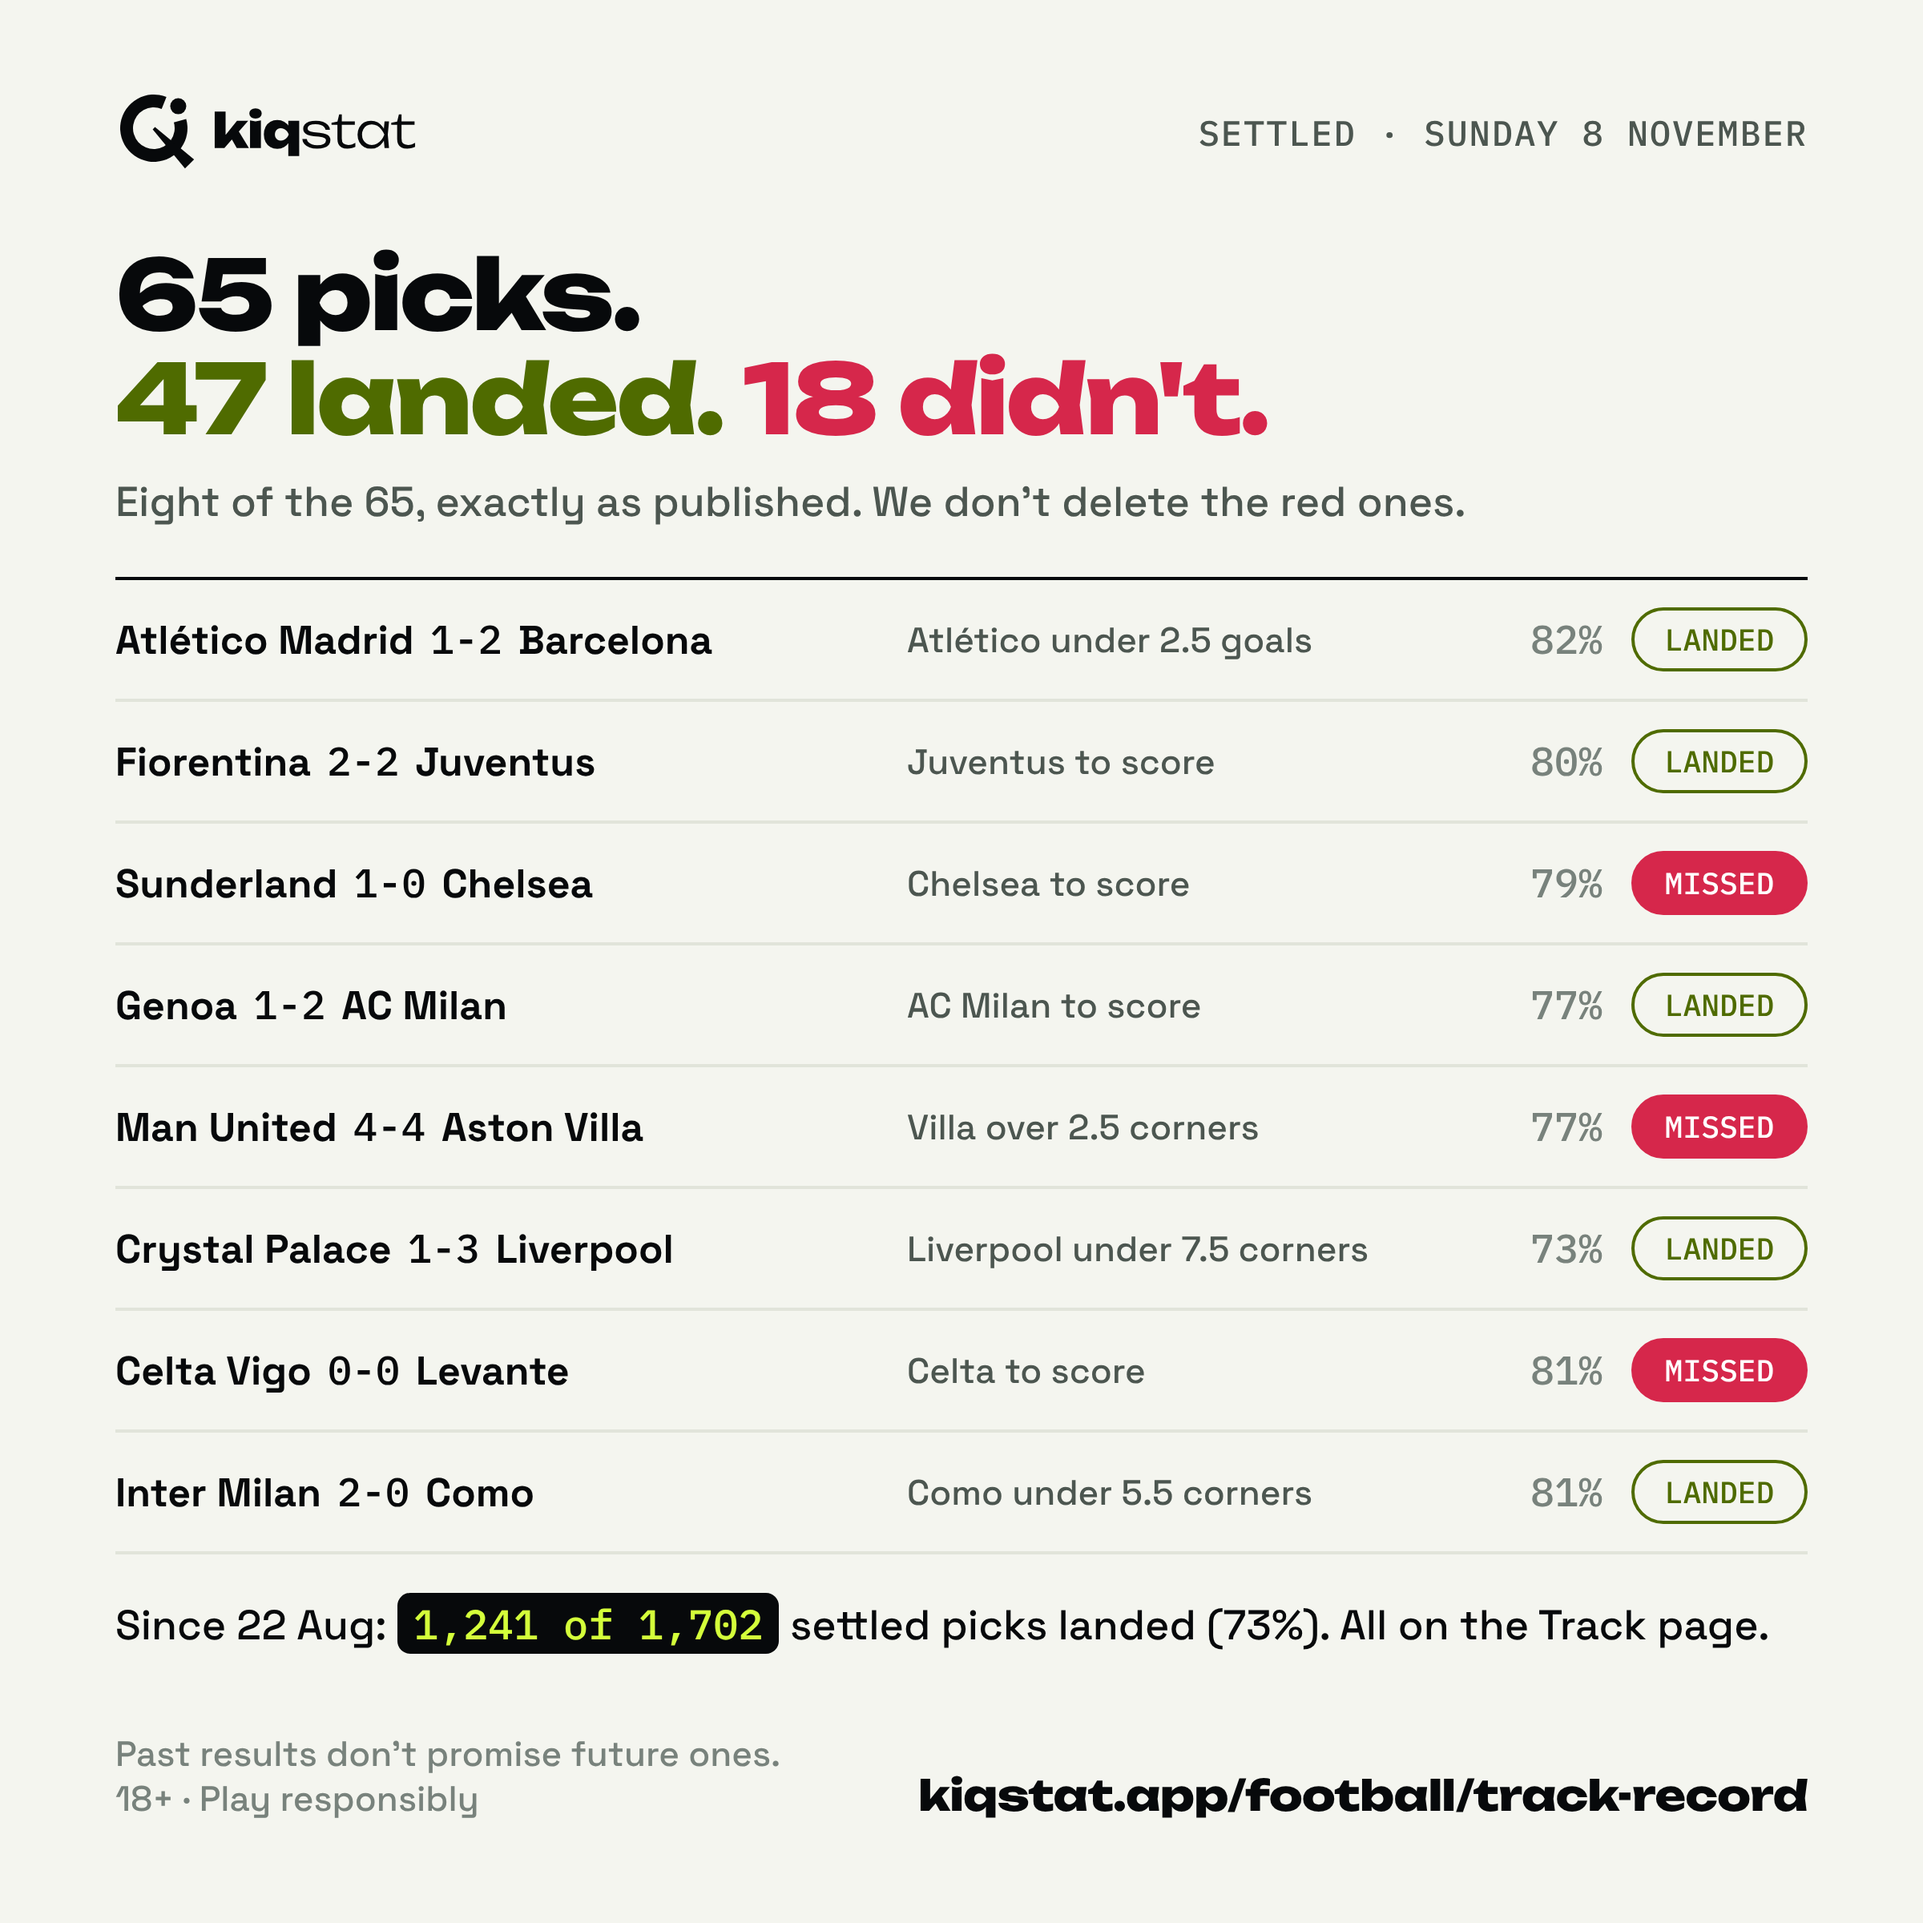
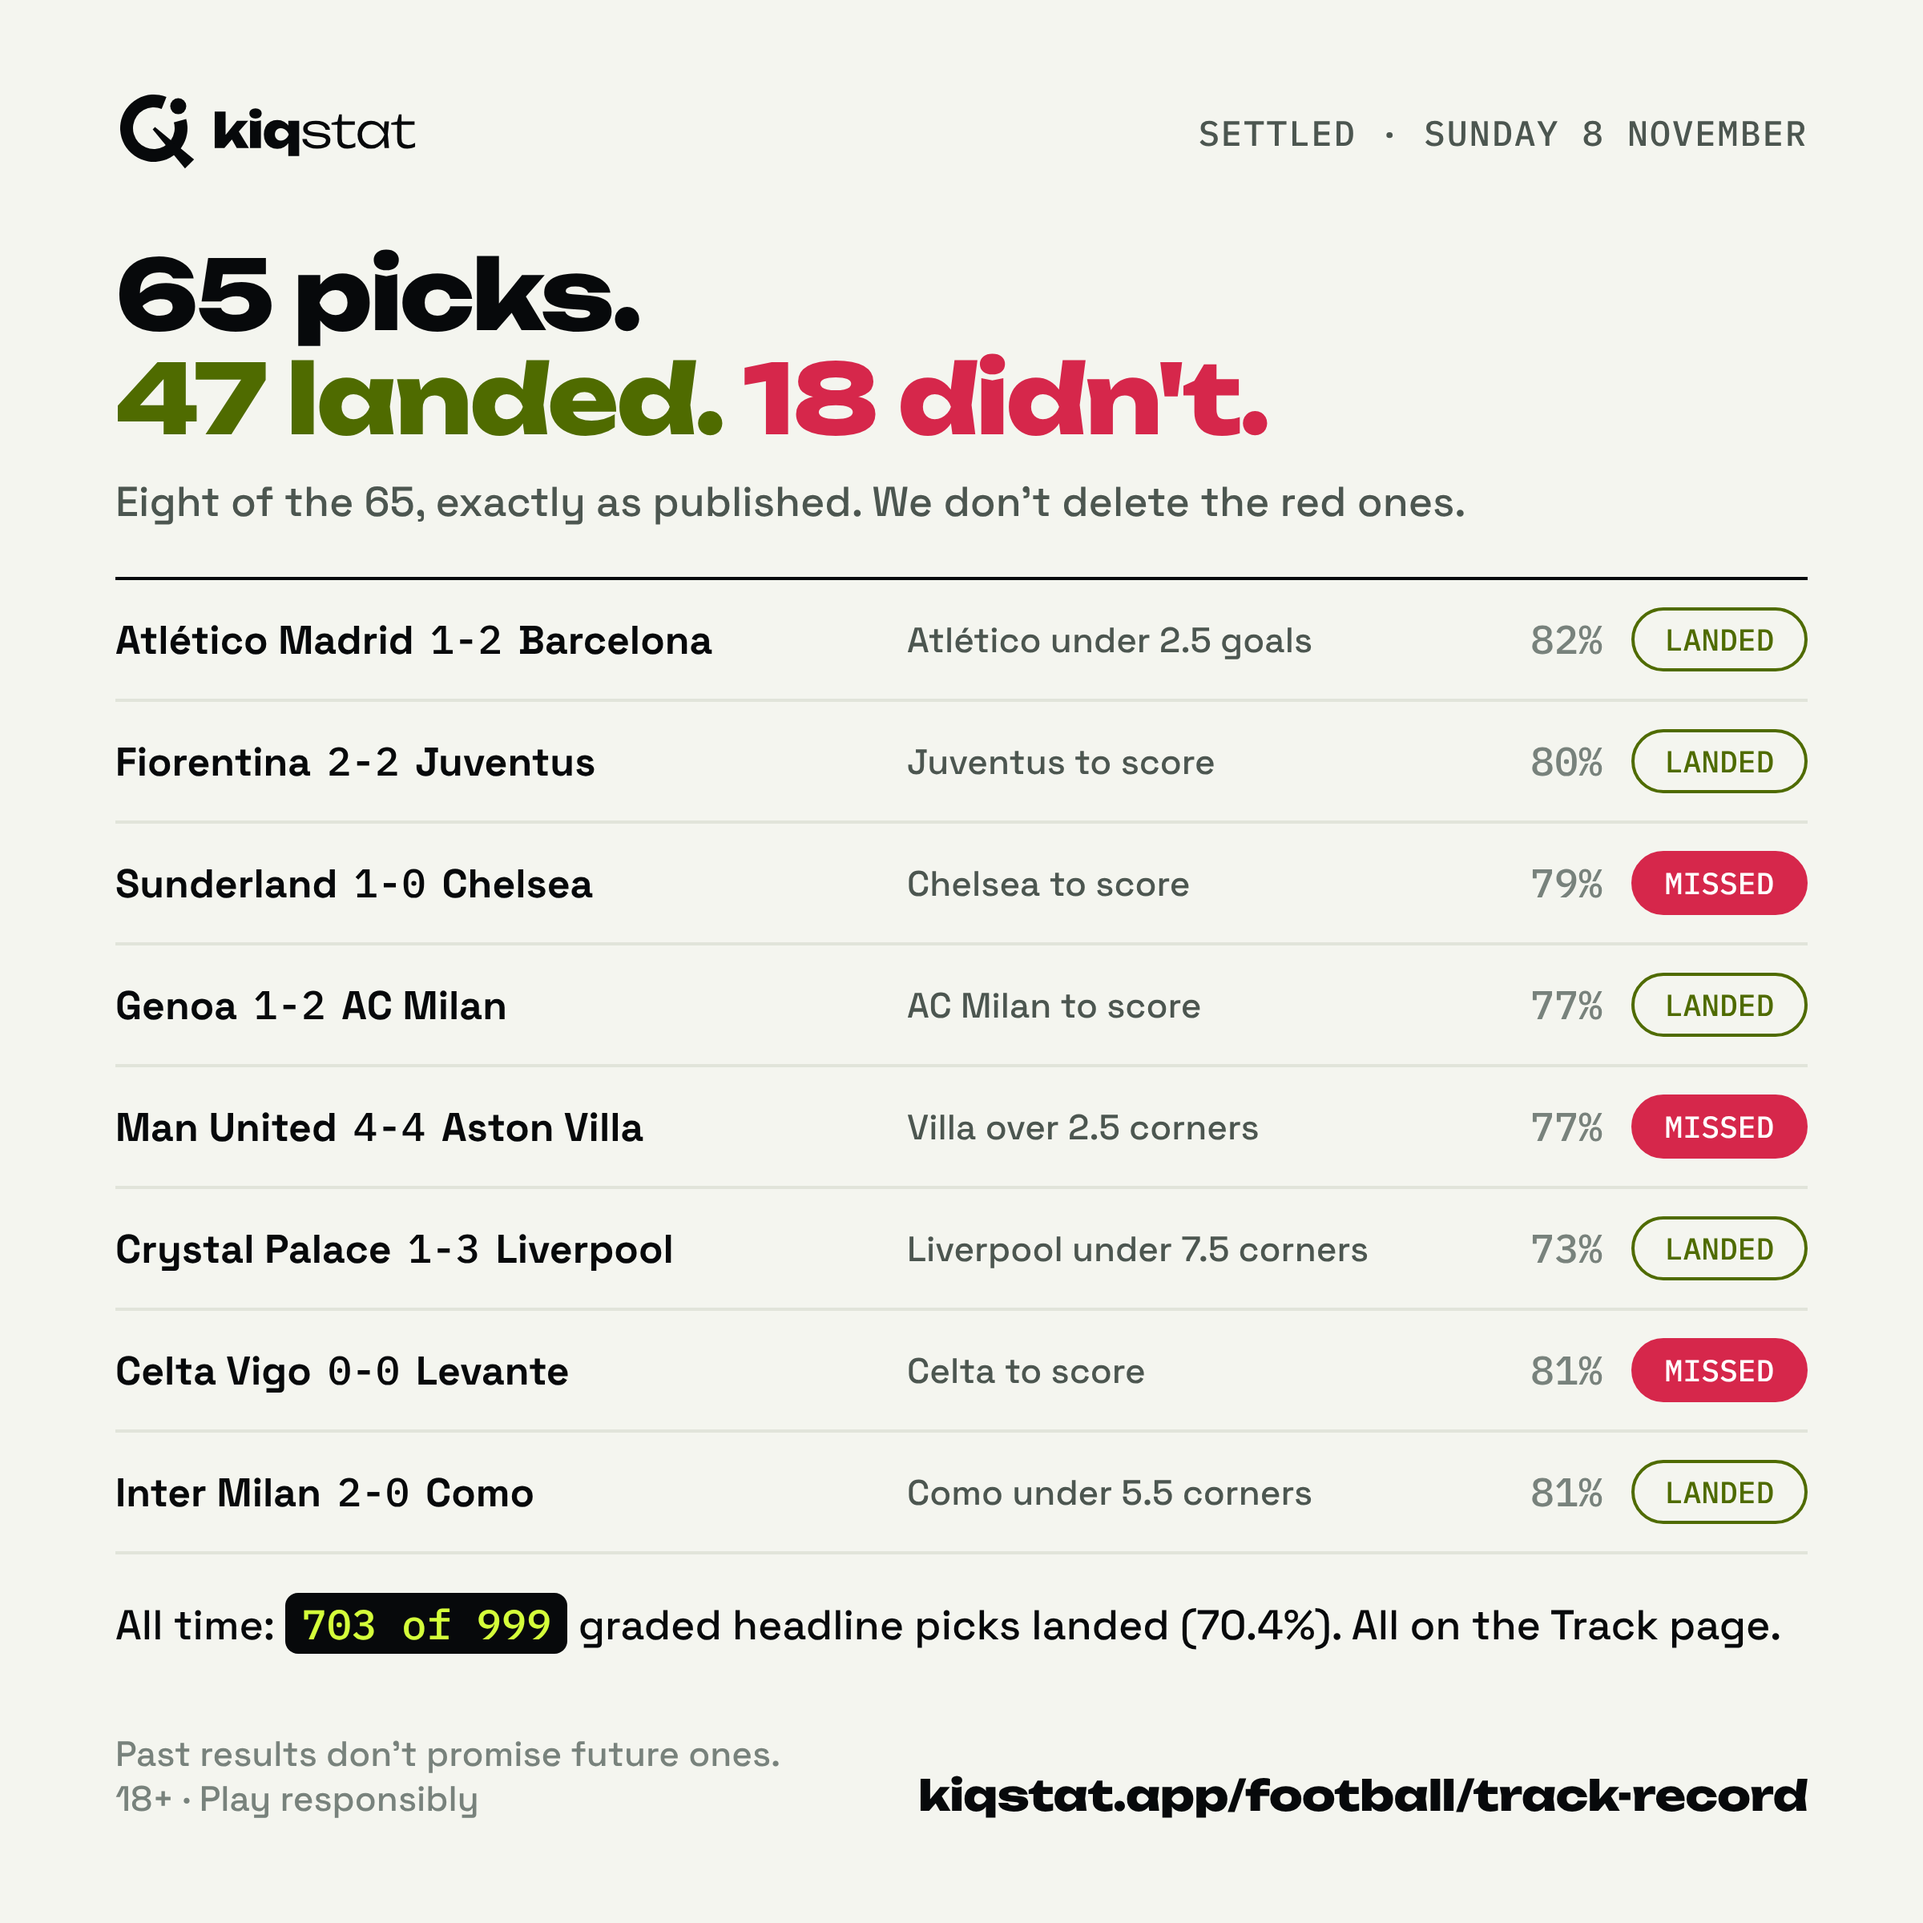
content: add three photo posters with real app screens
Also aligns the Sunday receipt poster with the Track page's own record.

Claude-Session: https://claude.ai/code/session_01K8pVDireMoMSKWNttdYXue

Changed region(s): [[0.0625, 0.8125, 0.4375, 0.875], [0.5938, 0.8125, 0.9062, 0.875], [0.4688, 0.8438, 0.5625, 0.875]]

diff --git a/docs/marketing/x-international-break-2026-11/captions.md b/docs/marketing/x-international-break-2026-11/captions.md
@@ -1,6 +1,6 @@
 # X posters: international break, 12 to 14 November 2026
 
-Five square posters (1200 x 1200, exported at 2x). Every figure is from `predictions_log` on 12 Nov 2026.
+Five square posters (1200 x 1200) and three 4:5 photo posters (1200 x 1500), all exported at 2x. Every figure is from `predictions_log` on 12 Nov 2026.
 Rebuild with `NODE_PATH=$(npm root -g) node docs/marketing/x-international-break-2026-11/build.mjs` after editing `DATA`.
 
 | File | Post it | Caption |
@@ -8,8 +8,11 @@ Rebuild with `NODE_PATH=$(npm root -g) node docs/marketing/x-international-break
 | `01-price-vs-model.png` | Thu 12 Nov, before 20:45 WAT | England v Croatia tonight. The price says 77%. Our model says 75%. At 1.27, are you in or out? Reply with your call. 18+ |
 | `02-sunday-receipt.png` | Any time in the break | Sunday: 65 picks, 47 landed, 18 didn't. United 4-4 Villa got us too. Every pick stays on the Track page, the red ones included. Which result hurt you most? 18+ |
 | `03-break-slate.png` | Thu 12 Nov, before 18:00 WAT | No club football this week, but 23 internationals are priced. Six of the model's chances below. Which one are you leaving out? 18+ |
-| `04-code-check.png` | Any time; the code shown is from 12 Nov | Four games at 72 to 75% each still make a 26% slip. Paste any booking code into KiqStat and see what yours adds up to, game by game. Free. What did yours come to? 18+ |
+| `04-code-check.png` | Any time; the code shown is from 12 Nov | Four games at 64 to 75% each still make a 26% slip. Paste any booking code into KiqStat and see what yours adds up to, game by game. Free. What did yours come to? 18+ |
 | `05-free-plan.png` | Any time | KiqStat's free plan: every pick in 27 competitions, live scores, a code checker and 3 questions a day to Ask KiqStat. No card. kiqstat.app 18+ |
+| `06-matchday.jpg` | Thu 12 Nov, before 20:45 WAT | England v Croatia, 20:45. The model reads it 74 / 16 / 10. See the pick it rates highest before kick-off. kiqstat.app 18+ |
+| `07-dont-guess.jpg` | Any matchday (the screen shows 12 Nov) | 17 games today. The model's pick and its chance on every one, free. Don't guess. Check. 18+ |
+| `08-public-record.jpg` | Any time | Every pick graded, even the bad ones. 703 won, 296 lost, all public. Would your tipster show you that? 18+ |
 
 Add the tagged link for each post from the X pack (`docs/reports/x-pack-2026-11.md`).
 Rules kept: chance not certainty, no bookmaker names, 18+, losses shown.

diff --git a/docs/marketing/x-international-break-2026-11/assets/SOURCES.md b/docs/marketing/x-international-break-2026-11/assets/SOURCES.md
@@ -1,0 +1,11 @@
+# Photo and screenshot sources
+
+| File | Source | Licence |
+|---|---|---|
+| `photo-px-3886235.jpg` | Pexels photo 3886235 | Pexels licence: free commercial use, no attribution |
+| `photo-1553778263-73a83bab9b0c.jpg` | Unsplash photo 1553778263-73a83bab9b0c | Unsplash licence: free commercial use, no attribution |
+| `photo-1431324155629-1a6deb1dec8d.jpg` | Unsplash photo 1431324155629-1a6deb1dec8d | Unsplash licence: free commercial use, no attribution |
+| `screen-*.png` | kiqstat.app, iPhone 14 Pro viewport, 12 Nov 2026 | Our own product |
+
+Neither licence covers people's likeness or third-party trademarks. Photos were chosen with no identifiable faces.
+No club crests, player names or league logos are used: those need a licence from the rights holder.
